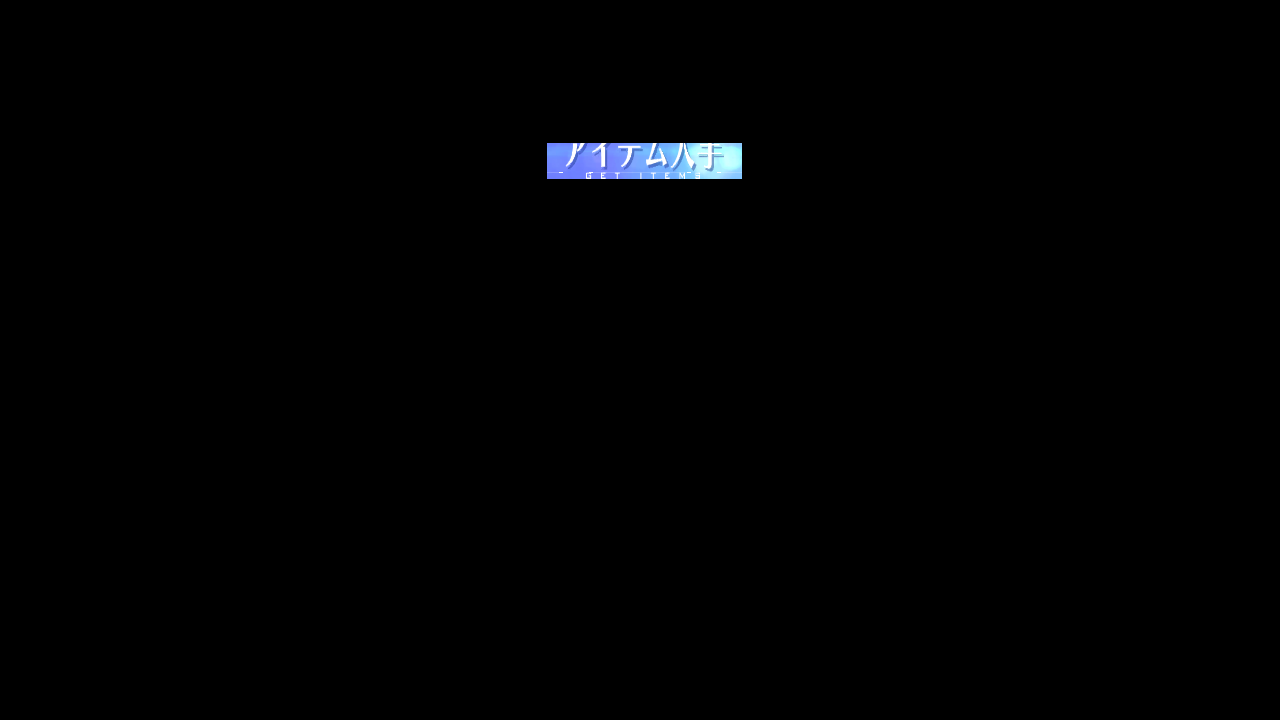
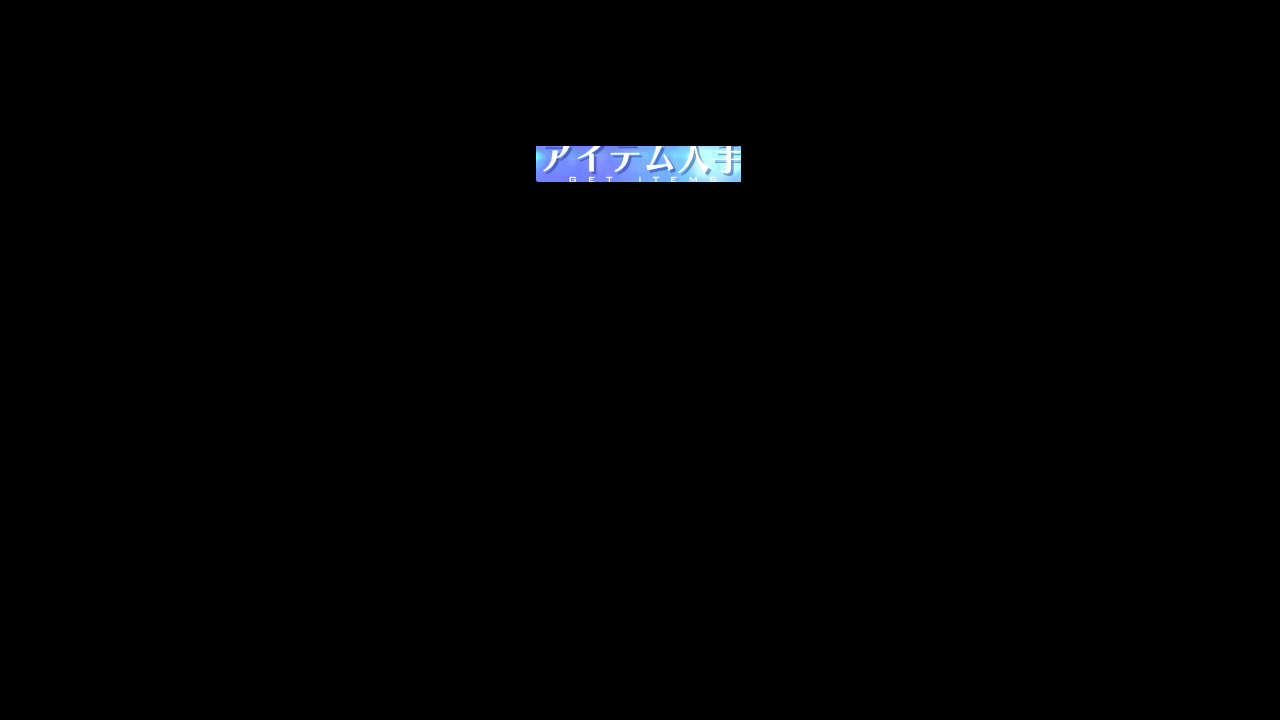
Revert "Upd: [JP] asset GET_ITEMS_X (#5718)"
This reverts commit c852cff758aa82e19be2da4f320548dfe375ffb4.

Changed region(s): [[0.4062, 0.1833, 0.5938, 0.275]]

diff --git a/module/combat/assets.py b/module/combat/assets.py
@@ -29,10 +29,10 @@ EXP_INFO_B = Button(area={'cn': (332, 107, 387, 118), 'en': (332, 107, 387, 118)
 EXP_INFO_C = Button(area={'cn': (332, 56, 345, 107), 'en': (332, 56, 345, 107), 'jp': (332, 56, 345, 107), 'tw': (332, 56, 345, 107)}, color={'cn': (198, 208, 198), 'en': (198, 208, 198), 'jp': (198, 208, 198), 'tw': (198, 208, 198)}, button={'cn': (1133, 634, 1262, 650), 'en': (1133, 634, 1262, 650), 'jp': (1133, 634, 1262, 650), 'tw': (1133, 634, 1262, 650)}, file={'cn': './assets/cn/combat/EXP_INFO_C.png', 'en': './assets/en/combat/EXP_INFO_C.png', 'jp': './assets/jp/combat/EXP_INFO_C.png', 'tw': './assets/tw/combat/EXP_INFO_C.png'})
 EXP_INFO_D = Button(area={'cn': (328, 45, 341, 119), 'en': (328, 45, 341, 119), 'jp': (328, 45, 341, 119), 'tw': (328, 45, 341, 119)}, color={'cn': (199, 208, 199), 'en': (199, 208, 199), 'jp': (199, 208, 199), 'tw': (199, 208, 199)}, button={'cn': (1133, 634, 1262, 650), 'en': (1133, 634, 1262, 650), 'jp': (1133, 634, 1262, 650), 'tw': (1133, 634, 1262, 650)}, file={'cn': './assets/cn/combat/EXP_INFO_D.png', 'en': './assets/en/combat/EXP_INFO_D.png', 'jp': './assets/jp/combat/EXP_INFO_D.png', 'tw': './assets/tw/combat/EXP_INFO_D.png'})
 EXP_INFO_S = Button(area={'cn': (342, 107, 389, 119), 'en': (342, 107, 389, 119), 'jp': (342, 107, 389, 119), 'tw': (342, 107, 389, 119)}, color={'cn': (233, 242, 127), 'en': (233, 242, 127), 'jp': (233, 242, 127), 'tw': (233, 242, 127)}, button={'cn': (1133, 634, 1262, 650), 'en': (1133, 634, 1262, 650), 'jp': (1133, 634, 1262, 650), 'tw': (1133, 634, 1262, 650)}, file={'cn': './assets/cn/combat/EXP_INFO_S.png', 'en': './assets/en/combat/EXP_INFO_S.png', 'jp': './assets/jp/combat/EXP_INFO_S.png', 'tw': './assets/tw/combat/EXP_INFO_S.png'})
-GET_ITEMS_1 = Button(area={'cn': (538, 217, 741, 253), 'en': (551, 223, 736, 250), 'jp': (548, 217, 741, 253), 'tw': (539, 217, 742, 253)}, color={'cn': (160, 192, 248), 'en': (166, 194, 235), 'jp': (144, 183, 250), 'tw': (155, 190, 248)}, button={'cn': (1000, 631, 1055, 689), 'en': (999, 630, 1047, 691), 'jp': (1000, 631, 1055, 689), 'tw': (1000, 631, 1055, 689)}, file={'cn': './assets/cn/combat/GET_ITEMS_1.png', 'en': './assets/en/combat/GET_ITEMS_1.png', 'jp': './assets/jp/combat/GET_ITEMS_1.png', 'tw': './assets/tw/combat/GET_ITEMS_1.png'})
+GET_ITEMS_1 = Button(area={'cn': (538, 217, 741, 253), 'en': (551, 223, 736, 250), 'jp': (539, 220, 741, 252), 'tw': (539, 217, 742, 253)}, color={'cn': (160, 192, 248), 'en': (166, 194, 235), 'jp': (146, 184, 249), 'tw': (155, 190, 248)}, button={'cn': (1000, 631, 1055, 689), 'en': (999, 630, 1047, 691), 'jp': (1000, 631, 1055, 689), 'tw': (1000, 631, 1055, 689)}, file={'cn': './assets/cn/combat/GET_ITEMS_1.png', 'en': './assets/en/combat/GET_ITEMS_1.png', 'jp': './assets/jp/combat/GET_ITEMS_1.png', 'tw': './assets/tw/combat/GET_ITEMS_1.png'})
 GET_ITEMS_1_RYZA = Button(area={'cn': (564, 217, 721, 245), 'en': (577, 211, 704, 239), 'jp': (566, 217, 719, 244), 'tw': (564, 218, 723, 246)}, color={'cn': (176, 199, 243), 'en': (172, 199, 246), 'jp': (179, 201, 243), 'tw': (173, 197, 242)}, button={'cn': (1000, 631, 1055, 689), 'en': (1000, 631, 1055, 689), 'jp': (1000, 631, 1055, 689), 'tw': (1000, 631, 1055, 689)}, file={'cn': './assets/cn/combat/GET_ITEMS_1_RYZA.png', 'en': './assets/en/combat/GET_ITEMS_1_RYZA.png', 'jp': './assets/jp/combat/GET_ITEMS_1_RYZA.png', 'tw': './assets/tw/combat/GET_ITEMS_1_RYZA.png'})
-GET_ITEMS_2 = Button(area={'cn': (538, 146, 742, 182), 'en': (551, 149, 735, 175), 'jp': (547, 143, 742, 179), 'tw': (538, 148, 741, 182)}, color={'cn': (160, 192, 248), 'en': (167, 195, 235), 'jp': (145, 183, 250), 'tw': (155, 190, 248)}, button={'cn': (1000, 631, 1055, 689), 'en': (999, 630, 1047, 691), 'jp': (1000, 631, 1055, 689), 'tw': (1000, 631, 1055, 689)}, file={'cn': './assets/cn/combat/GET_ITEMS_2.png', 'en': './assets/en/combat/GET_ITEMS_2.png', 'jp': './assets/jp/combat/GET_ITEMS_2.png', 'tw': './assets/tw/combat/GET_ITEMS_2.png'})
-GET_ITEMS_3 = Button(area={'cn': (539, 143, 742, 179), 'en': (548, 136, 740, 172), 'jp': (547, 143, 742, 179), 'tw': (546, 145, 742, 178)}, color={'cn': (161, 193, 248), 'en': (152, 185, 237), 'jp': (145, 183, 250), 'tw': (156, 190, 248)}, button={'cn': (1000, 631, 1055, 689), 'en': (999, 630, 1047, 691), 'jp': (1000, 631, 1055, 689), 'tw': (1000, 631, 1055, 689)}, file={'cn': './assets/cn/combat/GET_ITEMS_3.png', 'en': './assets/en/combat/GET_ITEMS_3.png', 'jp': './assets/jp/combat/GET_ITEMS_3.png', 'tw': './assets/tw/combat/GET_ITEMS_3.png'})
+GET_ITEMS_2 = Button(area={'cn': (538, 146, 742, 182), 'en': (551, 149, 735, 175), 'jp': (536, 146, 741, 182), 'tw': (538, 148, 741, 182)}, color={'cn': (160, 192, 248), 'en': (167, 195, 235), 'jp': (145, 182, 249), 'tw': (155, 190, 248)}, button={'cn': (1000, 631, 1055, 689), 'en': (999, 630, 1047, 691), 'jp': (1000, 631, 1055, 689), 'tw': (1000, 631, 1055, 689)}, file={'cn': './assets/cn/combat/GET_ITEMS_2.png', 'en': './assets/en/combat/GET_ITEMS_2.png', 'jp': './assets/jp/combat/GET_ITEMS_2.png', 'tw': './assets/tw/combat/GET_ITEMS_2.png'})
+GET_ITEMS_3 = Button(area={'cn': (539, 143, 742, 179), 'en': (548, 136, 740, 172), 'jp': (540, 143, 742, 179), 'tw': (546, 145, 742, 178)}, color={'cn': (161, 193, 248), 'en': (152, 185, 237), 'jp': (145, 182, 248), 'tw': (156, 190, 248)}, button={'cn': (1000, 631, 1055, 689), 'en': (999, 630, 1047, 691), 'jp': (1000, 631, 1055, 689), 'tw': (1000, 631, 1055, 689)}, file={'cn': './assets/cn/combat/GET_ITEMS_3.png', 'en': './assets/en/combat/GET_ITEMS_3.png', 'jp': './assets/jp/combat/GET_ITEMS_3.png', 'tw': './assets/tw/combat/GET_ITEMS_3.png'})
 GET_ITEMS_3_CHECK = Button(area={'cn': (335, 184, 947, 203), 'en': (335, 184, 947, 203), 'jp': (335, 184, 947, 203), 'tw': (335, 184, 947, 203)}, color={'cn': (84, 95, 109), 'en': (84, 95, 109), 'jp': (84, 95, 109), 'tw': (84, 95, 109)}, button={'cn': (335, 184, 947, 203), 'en': (335, 184, 947, 203), 'jp': (335, 184, 947, 203), 'tw': (335, 184, 947, 203)}, file={'cn': './assets/cn/combat/GET_ITEMS_3_CHECK.png', 'en': './assets/en/combat/GET_ITEMS_3_CHECK.png', 'jp': './assets/jp/combat/GET_ITEMS_3_CHECK.png', 'tw': './assets/tw/combat/GET_ITEMS_3_CHECK.png'})
 GET_SHIP = Button(area={'cn': (1104, 610, 1110, 630), 'en': (1104, 610, 1110, 630), 'jp': (1104, 610, 1110, 630), 'tw': (1104, 610, 1110, 630)}, color={'cn': (255, 255, 255), 'en': (255, 255, 255), 'jp': (255, 255, 255), 'tw': (255, 255, 255)}, button={'cn': (1000, 631, 1055, 689), 'en': (999, 630, 1047, 691), 'jp': (1000, 631, 1055, 689), 'tw': (1000, 631, 1055, 689)}, file={'cn': './assets/cn/combat/GET_SHIP.png', 'en': './assets/en/combat/GET_SHIP.png', 'jp': './assets/jp/combat/GET_SHIP.png', 'tw': './assets/tw/combat/GET_SHIP.png'})
 LOADING_BAR = Button(area={'cn': (33, 676, 1247, 680), 'en': (33, 676, 1247, 680), 'jp': (33, 676, 1247, 680), 'tw': (33, 676, 1247, 680)}, color={'cn': (172, 205, 232), 'en': (172, 205, 232), 'jp': (172, 205, 232), 'tw': (172, 205, 232)}, button={'cn': (33, 676, 1247, 680), 'en': (33, 676, 1247, 680), 'jp': (33, 676, 1247, 680), 'tw': (33, 676, 1247, 680)}, file={'cn': './assets/cn/combat/LOADING_BAR.png', 'en': './assets/en/combat/LOADING_BAR.png', 'jp': './assets/jp/combat/LOADING_BAR.png', 'tw': './assets/tw/combat/LOADING_BAR.png'})